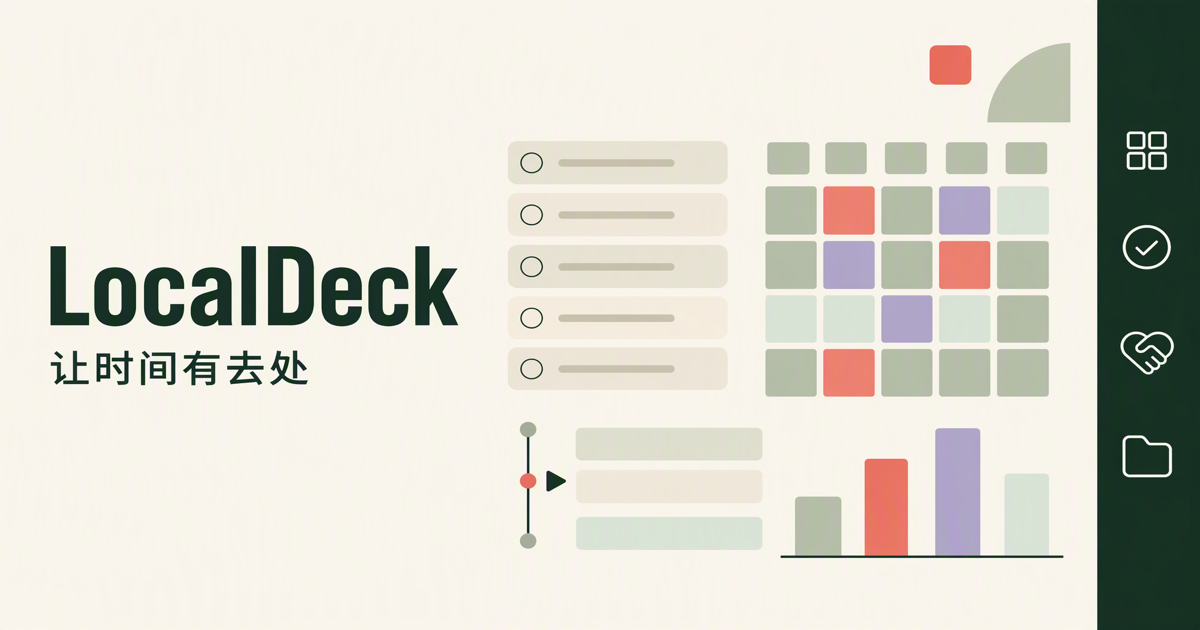
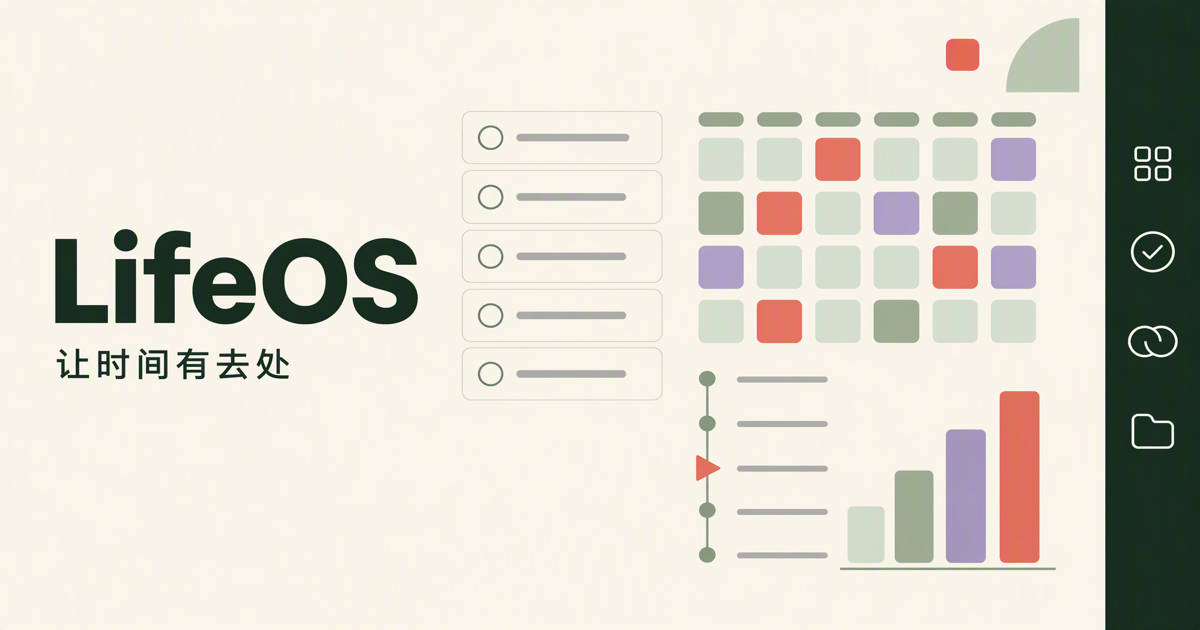
Name the product LifeOS
Renames the shell, bundle id, data and backup directory names, and the
environment variables the desktop process hands to the local runtime.
Drops the unused appId/dataDirName fields from the brand constant, which
had drifted out of sync with the packager configuration.

Changed region(s): [[0.0308, 0.0, 0.9867, 1.0]]

diff --git a/lib/brand.ts b/lib/brand.ts
@@ -1,8 +1,6 @@
 export const BRAND = {
-  name: "LocalDeck",
+  name: "LifeOS",
   mark: "L",
   tagline: "让时间有去处",
-  appId: "app.localdeck.desktop",
-  dataDirName: "LocalDeck",
-  backupDirName: "LocalDeck 备份",
+  backupDirName: "LifeOS 备份",
 } as const;

diff --git a/README.md b/README.md
@@ -1,4 +1,4 @@
-# LocalDeck
+# LifeOS
 
 一个本地优先（local-first）的个人工作台，把日程、任务、商单、记账、饮食和训练收进同一个界面。数据全部存在你自己的设备上，不上传、不同步、不需要账号。
 
